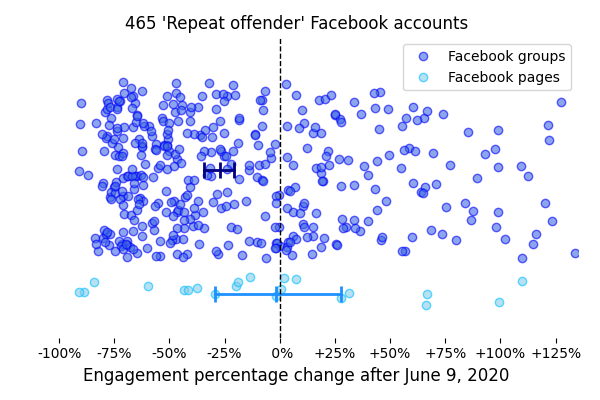
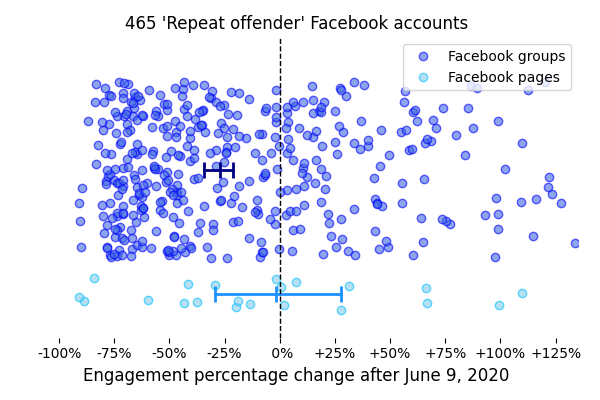
add repeat vs. free analysis for new data / section

diff --git a/code/create_section_1_figures.py b/code/create_section_1_figures.py
@@ -45,7 +45,7 @@ def clean_crowdtangle_url_data(post_url_df):
     return post_url_df
 
 
-def compute_fake_news_dates(post_url_df, url_df, account_id):
+def compute_fake_news_dates(post_url_df, url_df, url_column, date_column, account_id):
 
     post_url_group_df = post_url_df[post_url_df["account_id"]==account_id]
     fake_news_dates = []
@@ -56,7 +56,7 @@ def compute_fake_news_dates(post_url_df, url_df, account_id):
         # We consider the date of the Facebook post or posts:
         potential_dates.append(post_url_group_df[post_url_group_df["url"] == url]["date"].values[0])
         # We consider the date of the fact-check:
-        potential_dates.append(url_df[url_df['url']==url]["Date of publication"].values[0])
+        potential_dates.append(url_df[url_df[url_column]==url][date_column].values[0])
 
         potential_dates = [np.datetime64(date) for date in potential_dates]
         date_to_plot = np.max(potential_dates)
@@ -102,7 +102,7 @@ def merge_overlapping_periods(overlapping_periods):
         return merged_periods
 
 
-def plot_repeat_example_timeseries_figure(posts_df, posts_url_df, url_df):
+def plot_repeat_example_timeseries_figure(posts_df, posts_url_df, url_df, url_column, date_column, figure_name):
 
     account_name = 'Australian Climate Sceptics Group'
 
@@ -119,7 +119,7 @@ def plot_repeat_example_timeseries_figure(posts_df, posts_url_df, url_df):
     timeserie_template(ax)
     plt.ylim(-15, 150)
 
-    fake_news_dates = compute_fake_news_dates(posts_url_df, url_df, account_id)
+    fake_news_dates = compute_fake_news_dates(posts_url_df, url_df, url_column, date_column, account_id)
     for date in fake_news_dates:
         plt.plot([date, date], [-15, -.5], color='C3')
     plt.text(
@@ -145,7 +145,7 @@ def plot_repeat_example_timeseries_figure(posts_df, posts_url_df, url_df):
     plt.xticks(xticks, rotation=30, ha='right')
 
     plt.tight_layout()
-    save_figure('sf_example_timeseries')
+    save_figure(figure_name)
 
 
 def keep_repeat_offender_posts(posts_df_group, repeat_offender_periods):
@@ -189,7 +189,7 @@ def keep_free_posts(posts_df_group, repeat_offender_periods):
         return pd.DataFrame()
 
 
-def calculate_repeat_vs_free_percentage_change(posts_df, posts_url_df, url_df):
+def calculate_repeat_vs_free_percentage_change(posts_df, posts_url_df, url_df, url_column, date_column):
 
     sumup_df = pd.DataFrame(columns=[
         'account_name', 
@@ -202,7 +202,7 @@ def calculate_repeat_vs_free_percentage_change(posts_df, posts_url_df, url_df):
         account_name = posts_df[posts_df['account_id']==account_id].account_name.unique()[0]
         posts_df_group = posts_df[posts_df["account_id"] == account_id]
 
-        fake_news_dates = compute_fake_news_dates(posts_url_df, url_df, account_id)
+        fake_news_dates = compute_fake_news_dates(posts_url_df, url_df, url_column, date_column, account_id)
         repeat_offender_periods = compute_repeat_offender_periods(fake_news_dates)
         repeat_offender_periods = merge_overlapping_periods(repeat_offender_periods)
 
@@ -252,18 +252,18 @@ def plot_percentage_changes(sumup_groups_df, sumup_pages_df):
     percentage_change_template(ax)
     plt.ylim(-.45, 1.25)
 
-def plot_repeat_vs_free_percentage_change(posts_df, posts_url_df, url_df):
 
-    sumup_df = calculate_repeat_vs_free_percentage_change(posts_df, posts_url_df, url_df)
+def plot_repeat_vs_free_percentage_change(posts_df, posts_url_df, url_df, posts_page_df, url_column, date_column, figure_name):
 
-    posts_page_df = import_data(file_name="posts_fake_news_2021_page.csv")
+    sumup_df = calculate_repeat_vs_free_percentage_change(posts_df, posts_url_df, url_df, url_column, date_column)
+
     sumup_pages_df = sumup_df[sumup_df['account_name'].isin(list(posts_page_df["account_name"].unique()))]
     sumup_groups_df = sumup_df[~sumup_df['account_name'].isin(list(posts_page_df["account_name"].unique()))]
 
     print('\nREPEAT VS FREE PERIODS:')
 
-    print('Australian Climate Sceptics Group percentage change:', 
-          sumup_df[sumup_df['account_name']=='Australian Climate Sceptics Group']['percentage_change_engagament'].values[0])
+    # print('Australian Climate Sceptics Group percentage change:', 
+    #       sumup_df[sumup_df['account_name']=='Australian Climate Sceptics Group']['percentage_change_engagament'].values[0])
 
     print('Number of Facebook accounts:', len(sumup_df))
     print('Mean engagement percentage changes:', np.mean(sumup_df['percentage_change_engagament']))
@@ -285,10 +285,10 @@ def plot_repeat_vs_free_percentage_change(posts_df, posts_url_df, url_df):
     print('Wilcoxon test against zero for the engagement percentage changes for pages: w =', w, ', p =', p)
 
     plot_percentage_changes(sumup_groups_df, sumup_pages_df)
-    plt.title("'Repeat offender' Facebook accounts")
+    plt.title("{} 'Repeat offender' Facebook accounts".format(len(sumup_df)))
     plt.xlabel("Engagement percentage change\nbetween the 'repeat offender' and 'no strike' periods", size='large')
     plt.tight_layout()
-    save_figure('sf_repeat_vs_free_percentage_change')
+    save_figure(figure_name)
 
 
 def plot_average_timeseries(posts_df, figure_name):
@@ -385,8 +385,12 @@ if __name__=="__main__":
     posts_url_df = clean_crowdtangle_url_data(posts_url_df)
     url_df = import_data(file_name="appearances_2021-01-04_.csv") 
 
-    plot_repeat_example_timeseries_figure(posts_df, posts_url_df, url_df)
-    plot_repeat_vs_free_percentage_change(posts_df, posts_url_df, url_df)
+    plot_repeat_example_timeseries_figure(posts_df, posts_url_df, url_df,
+                                          'url', 'Date of publication',
+                                          'sf_example_timeseries')
+    plot_repeat_vs_free_percentage_change(posts_df, posts_url_df, url_df, posts_page_df,
+                                          'url', 'Date of publication',
+                                          'sf_repeat_vs_free_percentage_change')
 
     plot_average_timeseries(posts_df, 'sf_average_timeseries')
     plot_june_drop_percentage_change(posts_df, posts_page_df, 'sf_june_drop_percentage_change')

diff --git a/code/create_section_3_figures.py b/code/create_section_3_figures.py
@@ -3,6 +3,8 @@ import pandas as pd
 from utils import (import_data, save_figure)
 from create_section_1_figures import (
     import_crowdtangle_group_data,
+    clean_crowdtangle_url_data,
+    plot_repeat_vs_free_percentage_change,
     plot_average_timeseries,
     plot_june_drop_percentage_change
 )
@@ -47,12 +49,13 @@ if __name__=="__main__":
     # posts_df, posts_page_df = import_crowdtangle_group_data_all()
     posts_df, posts_page_df = import_crowdtangle_group_data_only_new()
 
-    # posts_url_df  = import_data(file_name="posts_url_2021-01-04_.csv")
-    # posts_url_df = clean_crowdtangle_url_data(posts_url_df)
-    # url_df = import_data(file_name="appearances_2021-01-04_.csv") 
+    posts_url_df  = import_data(file_name="posts_url_2021-08-16.csv")
+    posts_url_df = clean_crowdtangle_url_data(posts_url_df)
+    url_df = import_data(file_name="tpfc-recent-clean.csv") 
 
-    # plot_repeat_example_timeseries_figure(posts_df, posts_url_df, url_df)
-    # plot_repeat_vs_free_percentage_change(posts_df, posts_url_df, url_df)
+    plot_repeat_vs_free_percentage_change(posts_df, posts_url_df, url_df, posts_page_df,
+                                          'clean_url', 'tpfc_first_fact_check',
+                                          'condor_repeat_vs_free_percentage_change')
 
     plot_average_timeseries(posts_df, 'condor_average_timeseries')
     plot_june_drop_percentage_change(posts_df, posts_page_df, 'condor_june_drop_percentage_change')
